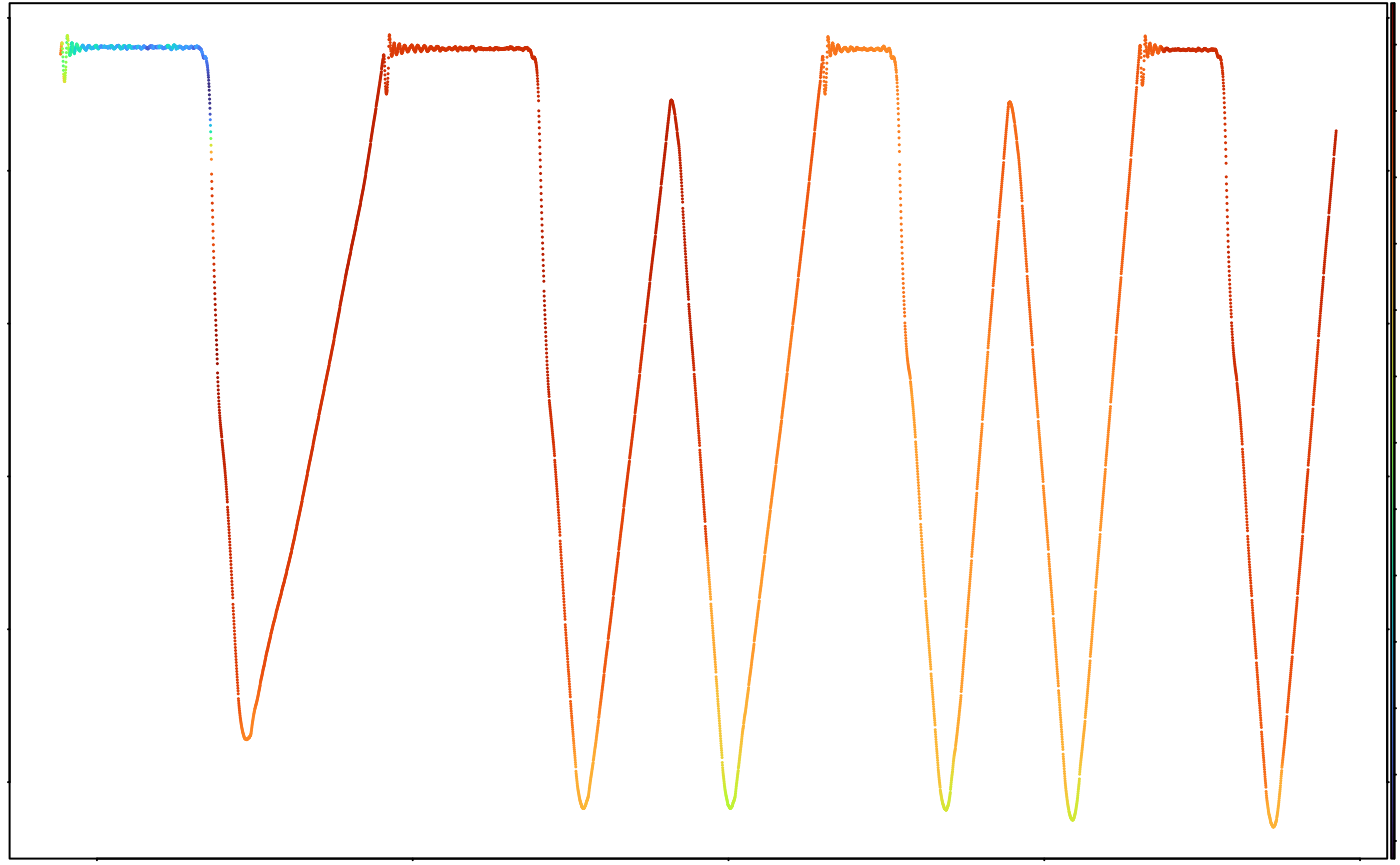
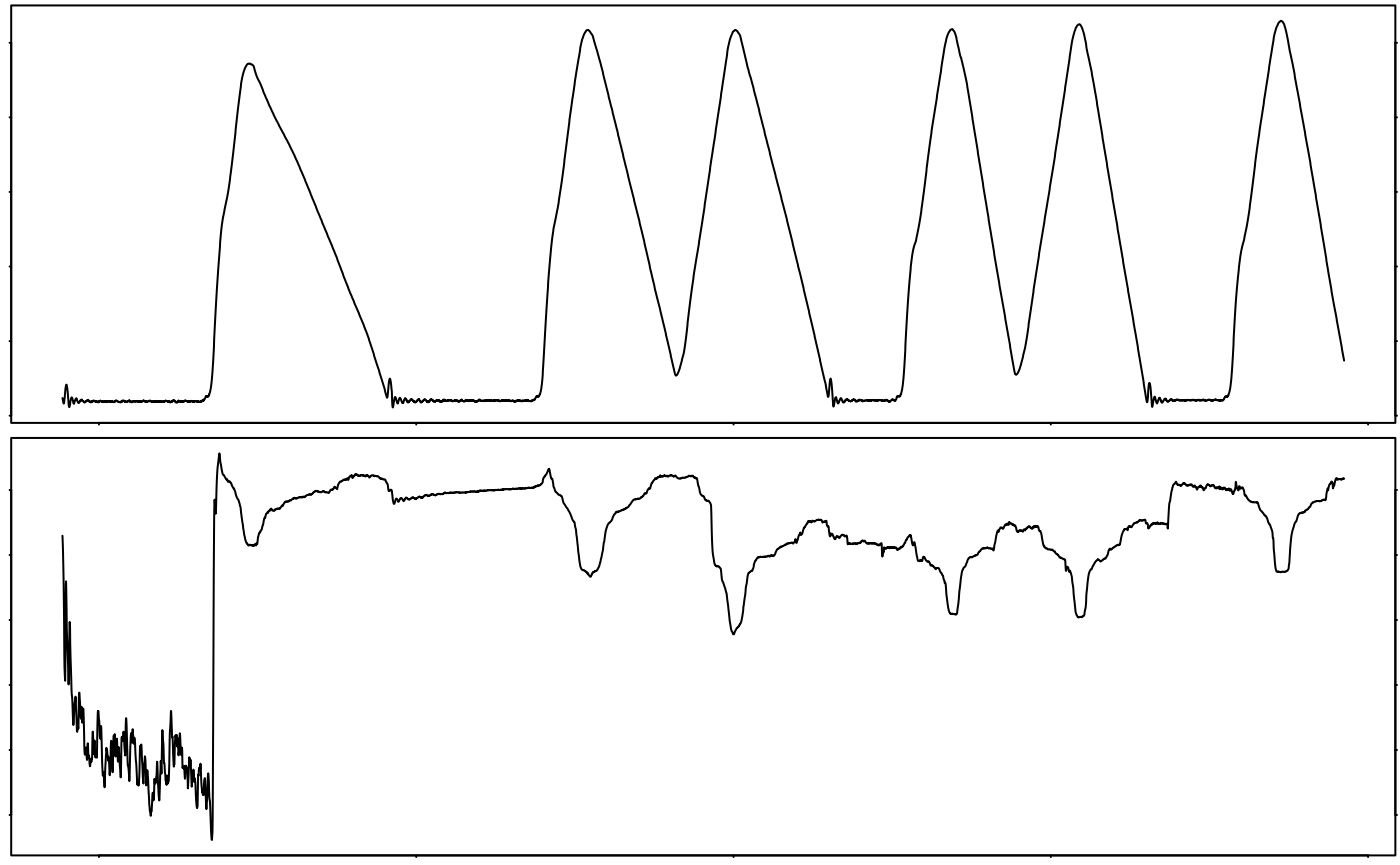
web

diff --git a/docs/articles/oceglider.html b/docs/articles/oceglider.html
@@ -174,9 +174,7 @@ between pairs of full yos.</p>
 <p>This dataset holds something called <code>navState</code> by the
 package. This can be seen in plots like the following. Notice that the
 glider is in the <code>at_surface</code> state at the start of the first
-two yos. (<em>Exercise:</em> to learn how to interpret the format of
-this diagram, try finding the full yos, and compare that with the
-previous diagram.)</p>
+two yos.</p>
 <div class="sourceCode" id="cb5"><pre class="downlit sourceCode r">
 <code class="sourceCode R"><span><span class="fu"><a href="https://rdrr.io/r/graphics/plot.default.html" class="external-link">plot</a></span><span class="op">(</span><span class="va">g</span>, which <span class="op">=</span> <span class="st">"navState"</span>, type <span class="op">=</span> <span class="st">"o"</span>, cex <span class="op">=</span> <span class="fl">0.5</span><span class="op">)</span></span></code></pre></div>
 <p><img src="oceglider_files/figure-html/unnamed-chunk-4-1.png" width="700"></p>
@@ -279,7 +277,8 @@ red for the second, and green for the third.</p>
 <span>        <span class="fu"><a href="https://rdrr.io/r/graphics/lines.html" class="external-link">lines</a></span><span class="op">(</span><span class="va">ctd</span><span class="op">[[</span><span class="st">"temperature"</span><span class="op">]</span><span class="op">]</span>, <span class="va">ctd</span><span class="op">[[</span><span class="st">"pressure"</span><span class="op">]</span><span class="op">]</span>, col <span class="op">=</span> <span class="va">i</span><span class="op">)</span></span>
 <span>    <span class="op">}</span></span>
 <span><span class="op">}</span></span>
-<span><span class="fu"><a href="https://rdrr.io/r/graphics/legend.html" class="external-link">legend</a></span><span class="op">(</span><span class="st">"topleft"</span>, title <span class="op">=</span> <span class="st">"Start Time"</span>,</span>
+<span><span class="fu"><a href="https://rdrr.io/r/graphics/legend.html" class="external-link">legend</a></span><span class="op">(</span><span class="st">"topleft"</span>,</span>
+<span>    title <span class="op">=</span> <span class="st">"Start Time"</span>,</span>
 <span>    lwd <span class="op">=</span> <span class="fl">1</span>, col <span class="op">=</span> <span class="fu"><a href="https://rdrr.io/r/base/seq.html" class="external-link">seq_along</a></span><span class="op">(</span><span class="va">s</span><span class="op">)</span>, cex <span class="op">=</span> <span class="fl">0.75</span>, bg <span class="op">=</span> <span class="st">"white"</span>,</span>
 <span>    legend <span class="op">=</span> <span class="fu"><a href="https://rdrr.io/r/base/lapply.html" class="external-link">sapply</a></span><span class="op">(</span><span class="va">s</span>, <span class="kw">function</span><span class="op">(</span><span class="va">ss</span><span class="op">)</span> <span class="fu"><a href="https://rdrr.io/r/base/format.html" class="external-link">format</a></span><span class="op">(</span><span class="va">ss</span><span class="op">$</span><span class="va">time</span><span class="op">[[</span><span class="fl">1</span><span class="op">]</span><span class="op">]</span>, <span class="st">"%H:%S"</span><span class="op">)</span><span class="op">)</span></span>
 <span><span class="op">)</span></span></code></pre></div>
@@ -316,24 +315,18 @@ computation of oxygen only requires the
 <span>    <span class="op">)</span></span>
 <span><span class="op">)</span></span></code></pre></div>
 <p>Once this is done, the <code>[[</code> can compute oxygen, as in the
-following. This plot requires a few steps to complete, especially with
-respect to margins.</p>
+following.</p>
+<p><em>Exercise:</em> Ponder the patterns in this plot in an
+oceanographic context. Do you think there might be measurement
+problems?</p>
 <div class="sourceCode" id="cb11"><pre class="downlit sourceCode r">
-<code class="sourceCode R"><span><span class="va">cm</span> <span class="op">&lt;-</span> <span class="fu">oce</span><span class="fu">::</span><span class="fu"><a href="https://dankelley.github.io/oce/reference/colormap.html" class="external-link">colormap</a></span><span class="op">(</span><span class="va">g</span><span class="op">[[</span><span class="st">"oxygen"</span><span class="op">]</span><span class="op">]</span>, col <span class="op">=</span> <span class="fu">oce</span><span class="fu">::</span><span class="va"><a href="https://dankelley.github.io/oce/reference/oceColorsTurbo.html" class="external-link">oceColorsTurbo</a></span><span class="op">)</span></span>
-<span><span class="fu"><a href="https://rdrr.io/r/graphics/par.html" class="external-link">par</a></span><span class="op">(</span>mar <span class="op">=</span> <span class="fu"><a href="https://rdrr.io/r/base/c.html" class="external-link">c</a></span><span class="op">(</span><span class="fl">2</span>, <span class="fl">3</span>, <span class="fl">1</span>, <span class="fl">1</span><span class="op">)</span><span class="op">)</span></span>
-<span><span class="fu">oce</span><span class="fu">::</span><span class="fu"><a href="https://dankelley.github.io/oce/reference/drawPalette.html" class="external-link">drawPalette</a></span><span class="op">(</span>colormap <span class="op">=</span> <span class="va">cm</span><span class="op">)</span></span>
-<span><span class="va">t</span> <span class="op">&lt;-</span> <span class="va">g</span><span class="op">[[</span><span class="st">"time"</span><span class="op">]</span><span class="op">]</span></span>
-<span><span class="va">p</span> <span class="op">&lt;-</span> <span class="va">g</span><span class="op">[[</span><span class="st">"pressure"</span><span class="op">]</span><span class="op">]</span></span>
-<span><span class="fu">oce</span><span class="fu">::</span><span class="fu"><a href="https://dankelley.github.io/oce/reference/oce.plot.ts.html" class="external-link">oce.plot.ts</a></span><span class="op">(</span><span class="va">t</span>, <span class="va">p</span>,</span>
-<span>    ylim <span class="op">=</span> <span class="fu"><a href="https://rdrr.io/r/base/rev.html" class="external-link">rev</a></span><span class="op">(</span><span class="fu"><a href="https://rdrr.io/r/base/range.html" class="external-link">range</a></span><span class="op">(</span><span class="va">p</span>, na.rm <span class="op">=</span> <span class="cn">TRUE</span><span class="op">)</span><span class="op">)</span>,</span>
-<span>    type <span class="op">=</span> <span class="st">"p"</span>, col <span class="op">=</span> <span class="va">cm</span><span class="op">$</span><span class="va">zcol</span>,</span>
-<span>    mar <span class="op">=</span> <span class="fu"><a href="https://rdrr.io/r/base/c.html" class="external-link">c</a></span><span class="op">(</span><span class="fl">2</span>, <span class="fl">3</span>, <span class="fl">1</span>, <span class="fl">4</span><span class="op">)</span></span>
-<span><span class="op">)</span></span></code></pre></div>
+<code class="sourceCode R"><span><span class="va">time</span> <span class="op">&lt;-</span> <span class="va">g</span><span class="op">[[</span><span class="st">"time"</span><span class="op">]</span><span class="op">]</span></span>
+<span><span class="va">pressure</span> <span class="op">&lt;-</span> <span class="va">g</span><span class="op">[[</span><span class="st">"pressure"</span><span class="op">]</span><span class="op">]</span></span>
+<span><span class="va">oxygen</span> <span class="op">&lt;-</span> <span class="va">g</span><span class="op">[[</span><span class="st">"oxygen"</span><span class="op">]</span><span class="op">]</span></span>
+<span><span class="fu"><a href="https://rdrr.io/r/graphics/par.html" class="external-link">par</a></span><span class="op">(</span>mfrow <span class="op">=</span> <span class="fu"><a href="https://rdrr.io/r/base/c.html" class="external-link">c</a></span><span class="op">(</span><span class="fl">2</span>, <span class="fl">1</span><span class="op">)</span><span class="op">)</span></span>
+<span><span class="fu">oce</span><span class="fu">::</span><span class="fu"><a href="https://dankelley.github.io/oce/reference/oce.plot.ts.html" class="external-link">oce.plot.ts</a></span><span class="op">(</span><span class="va">time</span>, <span class="va">pressure</span><span class="op">)</span></span>
+<span><span class="fu">oce</span><span class="fu">::</span><span class="fu"><a href="https://dankelley.github.io/oce/reference/oce.plot.ts.html" class="external-link">oce.plot.ts</a></span><span class="op">(</span><span class="va">time</span>, <span class="va">oxygen</span><span class="op">)</span></span></code></pre></div>
 <p><img src="oceglider_files/figure-html/unnamed-chunk-10-1.png" width="700"></p>
-<p><em>Exercise:</em> Can you think of a physical reason for the low
-surface oxygen in the first of the dataset? How about a
-mechanical/electronic reason? (Hint: I fully omitted the first yo from
-the dataset, because it had what I’ll call startup problems…)</p>
 </div>
 </div>
 <div class="section level2">
